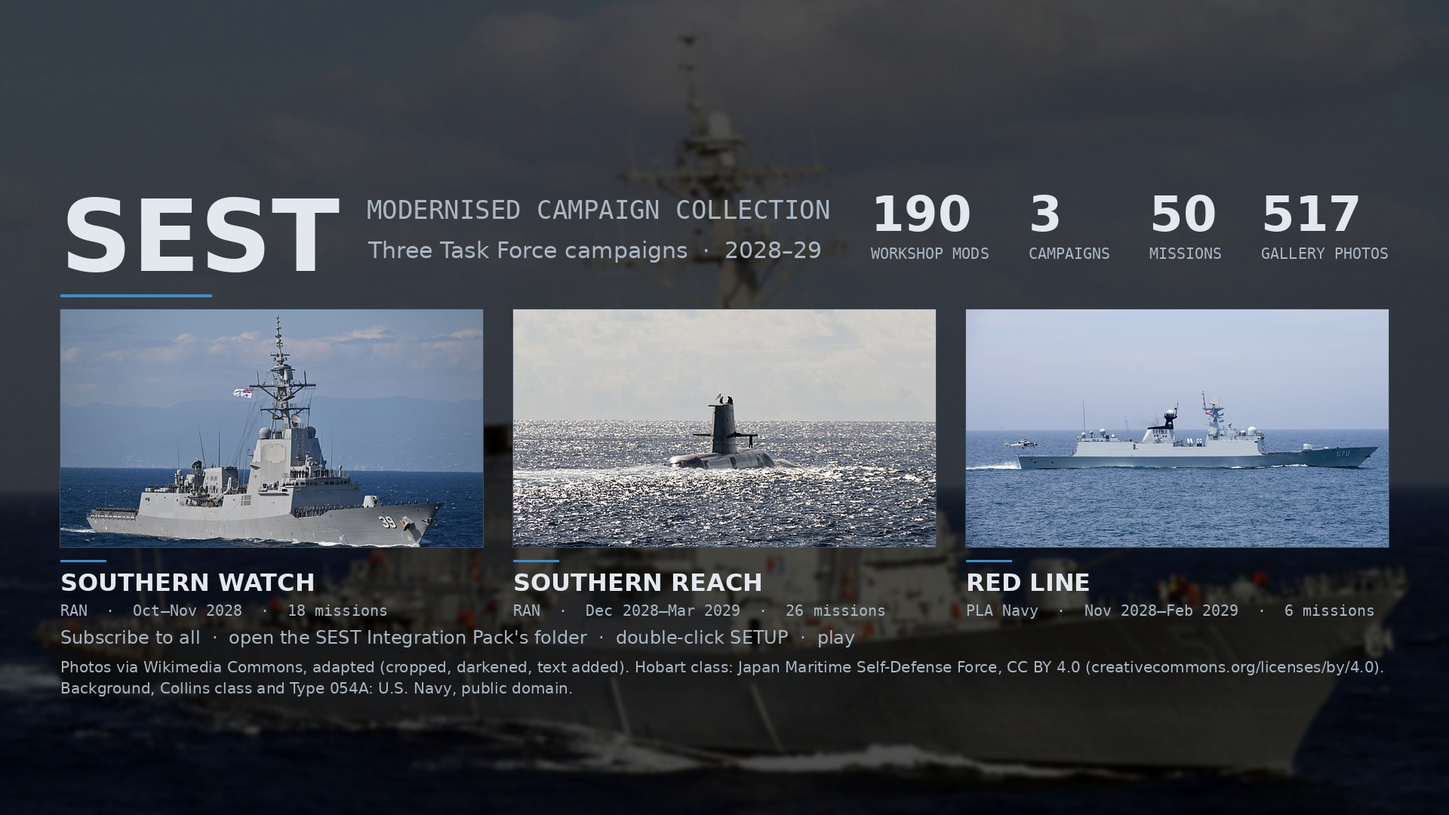
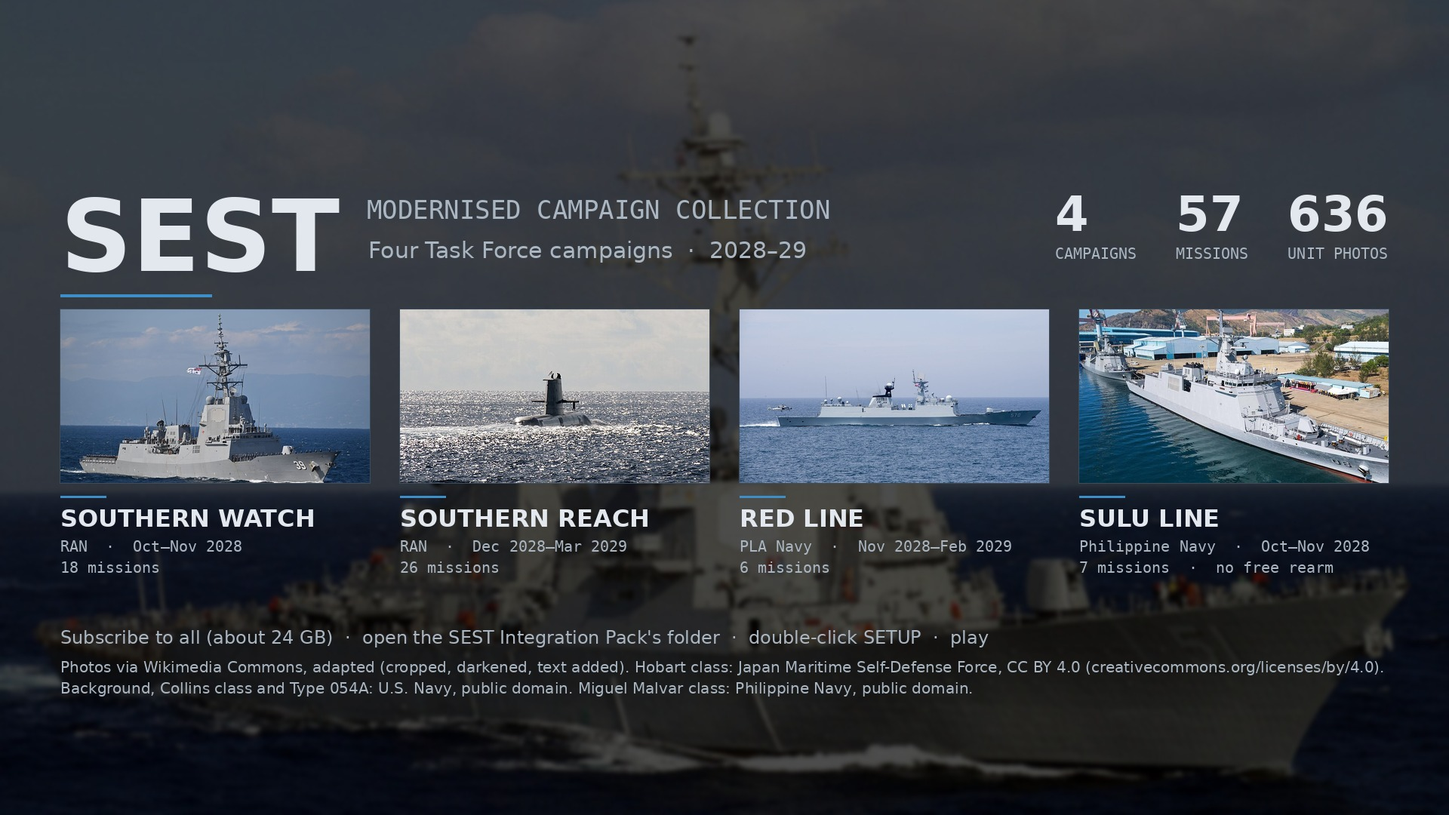
Steam artwork in the gallery: the four-campaign collection background and the Sulu Line card
The collection background in visuals/steam/ was the 5 Oct one (three
campaigns, a Workshop mod count on it); it is now the four-campaign
version with no mod count. The Sulu Line campaign card (Miguel Malvar,
Philippine Navy, public domain) joins the set, with its credit in
VISUAL_CREDITS.txt and a figure in visual_overhaul.html. The pack's
offline gallery ships the same files.

diff --git a/integration/dist/SEST_Integration/Gallery/visual_overhaul.html b/integration/dist/SEST_Integration/Gallery/visual_overhaul.html
@@ -6,7 +6,7 @@
 <div class="controls"><button id="prev">Previous</button><select id="screenSelect" aria-label="Loading photograph"></select><button id="next">Next</button><button id="toggle">Hide preview overlay</button><a id="download" download>Open clean JPEG</a></div><p id="screenCredit" class="note"></p><p class="note">Photographs are fitted without changing the subject. The 1920 × 1080 canvas is a delivery format; smaller source photos do not gain real detail through resizing. Source dimensions and modifications are recorded in the manifest.</p>
 <h2>Flags and naval ensigns</h2><p class="intro">Use national flags for country identity and the appropriate ensign for ship service. Preserve era-specific flags for historical scenarios. Russia is a separate modern-profile option; Soviet assets remain available for historical content.</p><div class="controls"><input id="flagSearch" type="search" placeholder="Find a country or ensign…" aria-label="Search flags"><select id="flagRole" aria-label="Flag type"><option value="">All supplied flags</option><option value="national">National flags</option><option value="naval_ensign">Naval ensigns</option><option value="historical">Historical profile</option></select><span id="flagCount" class="note"></span></div><div id="flags" class="flaggrid"></div>
 <h2>Campaign and briefing presentation</h2><p class="intro">The same approved photograph can support mission covers, a briefing panel and campaign splash art. The template uses plain text and a source photo; theatre names, dates, orders and maps must come from the actual mission.</p><div class="briefing"><img id="briefPhoto" alt="Photographic briefing example"><div class="copy"><label>Briefing layout template</label><h3>Mission title</h3><span class="pill">THEATRE</span> <span class="pill">SCENARIO DATE</span><p><strong>Situation</strong><br>Insert the campaign's approved situation text.</p><p><strong>Mission</strong><br>Insert the actual objectives and rules for this mission.</p><p>Keep the interactive briefing map and operational details sourced from the mission files. This template contains no invented scenario information.</p></div></div>
-<h2>Steam artwork</h2><p class="intro">The images on the collection and pack pages on Steam, made from photos in this gallery. Each image carries its photo credit; full sources are in VISUAL_CREDITS.txt.</p><style>.steamgrid{display:grid;grid-template-columns:repeat(auto-fill,minmax(260px,1fr));gap:16px;max-width:1200px}.steamart{margin:0;background:#fff;border:1px solid var(--line);border-radius:8px;overflow:hidden}.steamart img{display:block;width:100%;height:auto}.steamart figcaption{padding:10px 12px;font-size:13px}.steamart small{color:var(--muted)}</style><div class="steamgrid"><figure class="steamart"><a href="visuals/steam/collection-cover.jpg"><img loading="lazy" src="visuals/steam/collection-cover.jpg" alt="Collection cover"></a><figcaption><strong>Collection cover</strong><br><small>Hobart class: Japan Maritime Self-Defense Force, CC BY 4.0</small></figcaption></figure><figure class="steamart"><a href="visuals/steam/collection-background.jpg"><img loading="lazy" src="visuals/steam/collection-background.jpg" alt="Collection background"></a><figcaption><strong>Collection background</strong><br><small>Arleigh Burke class: U.S. Navy photo by Journalist 2nd Class Patrick Reilly, Public domain; Hobart class: Japan Maritime Self-Defense Force, CC BY 4.0; Collins class submarine: U.S. Navy photo by Mass Communication Specialist 1st Class Leonard Adams, Public domain; Type 054A frigate: U.S. Navy photo by Mass Communication Specialist 1st Class Scott Taylor, Public domain</small></figcaption></figure><figure class="steamart"><a href="visuals/steam/pack-preview.jpg"><img loading="lazy" src="visuals/steam/pack-preview.jpg" alt="Pack cover"></a><figcaption><strong>Pack cover</strong><br><small>F-35A — RAAF: U.S. Air Force photo by Senior Airman J. Michael Peña, Public domain</small></figcaption></figure><figure class="steamart"><a href="visuals/steam/pack-1-latest-update.jpg"><img loading="lazy" src="visuals/steam/pack-1-latest-update.jpg" alt="Latest update"></a><figcaption><strong>Latest update</strong><br><small>BRP Tarlac: U.S. Navy photo by Mass Communication Specialist 1st Class Daniel Barker, CC BY-SA 4.0</small></figcaption></figure><figure class="steamart"><a href="visuals/steam/pack-2-whats-inside.jpg"><img loading="lazy" src="visuals/steam/pack-2-whats-inside.jpg" alt="What's in the pack"></a><figcaption><strong>What's in the pack</strong><br><small>Arleigh Burke class: U.S. Navy photo by Journalist 2nd Class Patrick Reilly, Public domain</small></figcaption></figure><figure class="steamart"><a href="visuals/steam/pack-3-installing.jpg"><img loading="lazy" src="visuals/steam/pack-3-installing.jpg" alt="Installing"></a><figcaption><strong>Installing</strong><br><small>E-7A Wedgetail — RAAF: U.S. Air Force photo by Lawrence Crespo, Public domain</small></figcaption></figure><figure class="steamart"><a href="visuals/steam/pack-4-southern-watch.jpg"><img loading="lazy" src="visuals/steam/pack-4-southern-watch.jpg" alt="Southern Watch"></a><figcaption><strong>Southern Watch</strong><br><small>Hobart class: Japan Maritime Self-Defense Force, CC BY 4.0; campaign map: MH-60R Seahawk, U.S. Navy/Mass Communication Specialist 3rd Class Andrew Langholf, Public domain</small></figcaption></figure><figure class="steamart"><a href="visuals/steam/pack-5-southern-reach.jpg"><img loading="lazy" src="visuals/steam/pack-5-southern-reach.jpg" alt="Southern Reach"></a><figcaption><strong>Southern Reach</strong><br><small>Collins class submarine: U.S. Navy photo by Mass Communication Specialist 1st Class Leonard Adams, Public domain</small></figcaption></figure><figure class="steamart"><a href="visuals/steam/pack-6-red-line.jpg"><img loading="lazy" src="visuals/steam/pack-6-red-line.jpg" alt="Red Line"></a><figcaption><strong>Red Line</strong><br><small>Type 054A frigate: U.S. Navy photo by Mass Communication Specialist 1st Class Scott Taylor, Public domain; campaign map: Type 003 Fujian, China News Service, CC BY 4.0</small></figcaption></figure></div>
+<h2>Steam artwork</h2><p class="intro">The images on the collection and pack pages on Steam, made from photos in this gallery. Each image carries its photo credit; full sources are in VISUAL_CREDITS.txt.</p><style>.steamgrid{display:grid;grid-template-columns:repeat(auto-fill,minmax(260px,1fr));gap:16px;max-width:1200px}.steamart{margin:0;background:#fff;border:1px solid var(--line);border-radius:8px;overflow:hidden}.steamart img{display:block;width:100%;height:auto}.steamart figcaption{padding:10px 12px;font-size:13px}.steamart small{color:var(--muted)}</style><div class="steamgrid"><figure class="steamart"><a href="visuals/steam/collection-cover.jpg"><img loading="lazy" src="visuals/steam/collection-cover.jpg" alt="Collection cover"></a><figcaption><strong>Collection cover</strong><br><small>Hobart class: Japan Maritime Self-Defense Force, CC BY 4.0</small></figcaption></figure><figure class="steamart"><a href="visuals/steam/collection-background.jpg"><img loading="lazy" src="visuals/steam/collection-background.jpg" alt="Collection background"></a><figcaption><strong>Collection background</strong><br><small>Arleigh Burke class: U.S. Navy photo by Journalist 2nd Class Patrick Reilly, Public domain; Hobart class: Japan Maritime Self-Defense Force, CC BY 4.0; Collins class submarine: U.S. Navy photo by Mass Communication Specialist 1st Class Leonard Adams, Public domain; Type 054A frigate: U.S. Navy photo by Mass Communication Specialist 1st Class Scott Taylor, Public domain; Miguel Malvar class: Philippine Navy Public Affairs Office, Public domain</small></figcaption></figure><figure class="steamart"><a href="visuals/steam/pack-preview.jpg"><img loading="lazy" src="visuals/steam/pack-preview.jpg" alt="Pack cover"></a><figcaption><strong>Pack cover</strong><br><small>F-35A — RAAF: U.S. Air Force photo by Senior Airman J. Michael Peña, Public domain</small></figcaption></figure><figure class="steamart"><a href="visuals/steam/pack-1-latest-update.jpg"><img loading="lazy" src="visuals/steam/pack-1-latest-update.jpg" alt="Latest update"></a><figcaption><strong>Latest update</strong><br><small>BRP Tarlac: U.S. Navy photo by Mass Communication Specialist 1st Class Daniel Barker, CC BY-SA 4.0</small></figcaption></figure><figure class="steamart"><a href="visuals/steam/pack-2-whats-inside.jpg"><img loading="lazy" src="visuals/steam/pack-2-whats-inside.jpg" alt="What's in the pack"></a><figcaption><strong>What's in the pack</strong><br><small>Arleigh Burke class: U.S. Navy photo by Journalist 2nd Class Patrick Reilly, Public domain</small></figcaption></figure><figure class="steamart"><a href="visuals/steam/pack-3-installing.jpg"><img loading="lazy" src="visuals/steam/pack-3-installing.jpg" alt="Installing"></a><figcaption><strong>Installing</strong><br><small>E-7A Wedgetail — RAAF: U.S. Air Force photo by Lawrence Crespo, Public domain</small></figcaption></figure><figure class="steamart"><a href="visuals/steam/pack-4-southern-watch.jpg"><img loading="lazy" src="visuals/steam/pack-4-southern-watch.jpg" alt="Southern Watch"></a><figcaption><strong>Southern Watch</strong><br><small>Hobart class: Japan Maritime Self-Defense Force, CC BY 4.0; campaign map: MH-60R Seahawk, U.S. Navy/Mass Communication Specialist 3rd Class Andrew Langholf, Public domain</small></figcaption></figure><figure class="steamart"><a href="visuals/steam/pack-5-southern-reach.jpg"><img loading="lazy" src="visuals/steam/pack-5-southern-reach.jpg" alt="Southern Reach"></a><figcaption><strong>Southern Reach</strong><br><small>Collins class submarine: U.S. Navy photo by Mass Communication Specialist 1st Class Leonard Adams, Public domain</small></figcaption></figure><figure class="steamart"><a href="visuals/steam/pack-6-red-line.jpg"><img loading="lazy" src="visuals/steam/pack-6-red-line.jpg" alt="Red Line"></a><figcaption><strong>Red Line</strong><br><small>Type 054A frigate: U.S. Navy photo by Mass Communication Specialist 1st Class Scott Taylor, Public domain; campaign map: Type 003 Fujian, China News Service, CC BY 4.0</small></figcaption></figure><figure class="steamart"><a href="visuals/steam/pack-7-sulu-line.jpg"><img loading="lazy" src="visuals/steam/pack-7-sulu-line.jpg" alt="Sulu Line"></a><figcaption><strong>Sulu Line</strong><br><small>Miguel Malvar class: Philippine Navy Public Affairs Office, Public domain; campaign map: BRP Tarlac, U.S. Navy photo by Mass Communication Specialist 1st Class Daniel Barker, CC BY-SA 4.0</small></figcaption></figure></div>
 <h2>Other improvements to consider</h2><div class="table"><table><thead><tr><th>Area</th><th>Deliverable</th><th>Current state</th><th>Order</th></tr></thead><tbody id="roadmap"></tbody></table></div>
 </main><footer>Source graphics and photographs retain their own licences. Clean assets, credits and candidate mappings are supplied. No game files have been changed; native image loading, flag texture routing, mod conflicts and in-game appearance still require testing.</footer><script src="visuals/catalogue.js"></script><script>
 'use strict';const V=window.VISUALS;const $=s=>document.querySelector(s);const esc=s=>String(s??'').replace(/[&<>"']/g,c=>({'&':'&amp;','<':'&lt;','>':'&gt;','"':'&quot;',"'":'&#39;'}[c]));let index=0,overlay=true;

diff --git a/integration/gallery/SEST_Gallery/Gallery/visual_overhaul.html b/integration/gallery/SEST_Gallery/Gallery/visual_overhaul.html
@@ -6,7 +6,7 @@
 <div class="controls"><button id="prev">Previous</button><select id="screenSelect" aria-label="Loading photograph"></select><button id="next">Next</button><button id="toggle">Hide preview overlay</button><a id="download" download>Open clean JPEG</a></div><p id="screenCredit" class="note"></p><p class="note">Photographs are fitted without changing the subject. The 1920 × 1080 canvas is a delivery format; smaller source photos do not gain real detail through resizing. Source dimensions and modifications are recorded in the manifest.</p>
 <h2>Flags and naval ensigns</h2><p class="intro">Use national flags for country identity and the appropriate ensign for ship service. Preserve era-specific flags for historical scenarios. Russia is a separate modern-profile option; Soviet assets remain available for historical content.</p><div class="controls"><input id="flagSearch" type="search" placeholder="Find a country or ensign…" aria-label="Search flags"><select id="flagRole" aria-label="Flag type"><option value="">All supplied flags</option><option value="national">National flags</option><option value="naval_ensign">Naval ensigns</option><option value="historical">Historical profile</option></select><span id="flagCount" class="note"></span></div><div id="flags" class="flaggrid"></div>
 <h2>Campaign and briefing presentation</h2><p class="intro">The same approved photograph can support mission covers, a briefing panel and campaign splash art. The template uses plain text and a source photo; theatre names, dates, orders and maps must come from the actual mission.</p><div class="briefing"><img id="briefPhoto" alt="Photographic briefing example"><div class="copy"><label>Briefing layout template</label><h3>Mission title</h3><span class="pill">THEATRE</span> <span class="pill">SCENARIO DATE</span><p><strong>Situation</strong><br>Insert the campaign's approved situation text.</p><p><strong>Mission</strong><br>Insert the actual objectives and rules for this mission.</p><p>Keep the interactive briefing map and operational details sourced from the mission files. This template contains no invented scenario information.</p></div></div>
-<h2>Steam artwork</h2><p class="intro">The images on the collection and pack pages on Steam, made from photos in this gallery. Each image carries its photo credit; full sources are in VISUAL_CREDITS.txt.</p><style>.steamgrid{display:grid;grid-template-columns:repeat(auto-fill,minmax(260px,1fr));gap:16px;max-width:1200px}.steamart{margin:0;background:#fff;border:1px solid var(--line);border-radius:8px;overflow:hidden}.steamart img{display:block;width:100%;height:auto}.steamart figcaption{padding:10px 12px;font-size:13px}.steamart small{color:var(--muted)}</style><div class="steamgrid"><figure class="steamart"><a href="visuals/steam/collection-cover.jpg"><img loading="lazy" src="visuals/steam/collection-cover.jpg" alt="Collection cover"></a><figcaption><strong>Collection cover</strong><br><small>Hobart class: Japan Maritime Self-Defense Force, CC BY 4.0</small></figcaption></figure><figure class="steamart"><a href="visuals/steam/collection-background.jpg"><img loading="lazy" src="visuals/steam/collection-background.jpg" alt="Collection background"></a><figcaption><strong>Collection background</strong><br><small>Arleigh Burke class: U.S. Navy photo by Journalist 2nd Class Patrick Reilly, Public domain; Hobart class: Japan Maritime Self-Defense Force, CC BY 4.0; Collins class submarine: U.S. Navy photo by Mass Communication Specialist 1st Class Leonard Adams, Public domain; Type 054A frigate: U.S. Navy photo by Mass Communication Specialist 1st Class Scott Taylor, Public domain</small></figcaption></figure><figure class="steamart"><a href="visuals/steam/pack-preview.jpg"><img loading="lazy" src="visuals/steam/pack-preview.jpg" alt="Pack cover"></a><figcaption><strong>Pack cover</strong><br><small>F-35A — RAAF: U.S. Air Force photo by Senior Airman J. Michael Peña, Public domain</small></figcaption></figure><figure class="steamart"><a href="visuals/steam/pack-1-latest-update.jpg"><img loading="lazy" src="visuals/steam/pack-1-latest-update.jpg" alt="Latest update"></a><figcaption><strong>Latest update</strong><br><small>BRP Tarlac: U.S. Navy photo by Mass Communication Specialist 1st Class Daniel Barker, CC BY-SA 4.0</small></figcaption></figure><figure class="steamart"><a href="visuals/steam/pack-2-whats-inside.jpg"><img loading="lazy" src="visuals/steam/pack-2-whats-inside.jpg" alt="What's in the pack"></a><figcaption><strong>What's in the pack</strong><br><small>Arleigh Burke class: U.S. Navy photo by Journalist 2nd Class Patrick Reilly, Public domain</small></figcaption></figure><figure class="steamart"><a href="visuals/steam/pack-3-installing.jpg"><img loading="lazy" src="visuals/steam/pack-3-installing.jpg" alt="Installing"></a><figcaption><strong>Installing</strong><br><small>E-7A Wedgetail — RAAF: U.S. Air Force photo by Lawrence Crespo, Public domain</small></figcaption></figure><figure class="steamart"><a href="visuals/steam/pack-4-southern-watch.jpg"><img loading="lazy" src="visuals/steam/pack-4-southern-watch.jpg" alt="Southern Watch"></a><figcaption><strong>Southern Watch</strong><br><small>Hobart class: Japan Maritime Self-Defense Force, CC BY 4.0; campaign map: MH-60R Seahawk, U.S. Navy/Mass Communication Specialist 3rd Class Andrew Langholf, Public domain</small></figcaption></figure><figure class="steamart"><a href="visuals/steam/pack-5-southern-reach.jpg"><img loading="lazy" src="visuals/steam/pack-5-southern-reach.jpg" alt="Southern Reach"></a><figcaption><strong>Southern Reach</strong><br><small>Collins class submarine: U.S. Navy photo by Mass Communication Specialist 1st Class Leonard Adams, Public domain</small></figcaption></figure><figure class="steamart"><a href="visuals/steam/pack-6-red-line.jpg"><img loading="lazy" src="visuals/steam/pack-6-red-line.jpg" alt="Red Line"></a><figcaption><strong>Red Line</strong><br><small>Type 054A frigate: U.S. Navy photo by Mass Communication Specialist 1st Class Scott Taylor, Public domain; campaign map: Type 003 Fujian, China News Service, CC BY 4.0</small></figcaption></figure></div>
+<h2>Steam artwork</h2><p class="intro">The images on the collection and pack pages on Steam, made from photos in this gallery. Each image carries its photo credit; full sources are in VISUAL_CREDITS.txt.</p><style>.steamgrid{display:grid;grid-template-columns:repeat(auto-fill,minmax(260px,1fr));gap:16px;max-width:1200px}.steamart{margin:0;background:#fff;border:1px solid var(--line);border-radius:8px;overflow:hidden}.steamart img{display:block;width:100%;height:auto}.steamart figcaption{padding:10px 12px;font-size:13px}.steamart small{color:var(--muted)}</style><div class="steamgrid"><figure class="steamart"><a href="visuals/steam/collection-cover.jpg"><img loading="lazy" src="visuals/steam/collection-cover.jpg" alt="Collection cover"></a><figcaption><strong>Collection cover</strong><br><small>Hobart class: Japan Maritime Self-Defense Force, CC BY 4.0</small></figcaption></figure><figure class="steamart"><a href="visuals/steam/collection-background.jpg"><img loading="lazy" src="visuals/steam/collection-background.jpg" alt="Collection background"></a><figcaption><strong>Collection background</strong><br><small>Arleigh Burke class: U.S. Navy photo by Journalist 2nd Class Patrick Reilly, Public domain; Hobart class: Japan Maritime Self-Defense Force, CC BY 4.0; Collins class submarine: U.S. Navy photo by Mass Communication Specialist 1st Class Leonard Adams, Public domain; Type 054A frigate: U.S. Navy photo by Mass Communication Specialist 1st Class Scott Taylor, Public domain; Miguel Malvar class: Philippine Navy Public Affairs Office, Public domain</small></figcaption></figure><figure class="steamart"><a href="visuals/steam/pack-preview.jpg"><img loading="lazy" src="visuals/steam/pack-preview.jpg" alt="Pack cover"></a><figcaption><strong>Pack cover</strong><br><small>F-35A — RAAF: U.S. Air Force photo by Senior Airman J. Michael Peña, Public domain</small></figcaption></figure><figure class="steamart"><a href="visuals/steam/pack-1-latest-update.jpg"><img loading="lazy" src="visuals/steam/pack-1-latest-update.jpg" alt="Latest update"></a><figcaption><strong>Latest update</strong><br><small>BRP Tarlac: U.S. Navy photo by Mass Communication Specialist 1st Class Daniel Barker, CC BY-SA 4.0</small></figcaption></figure><figure class="steamart"><a href="visuals/steam/pack-2-whats-inside.jpg"><img loading="lazy" src="visuals/steam/pack-2-whats-inside.jpg" alt="What's in the pack"></a><figcaption><strong>What's in the pack</strong><br><small>Arleigh Burke class: U.S. Navy photo by Journalist 2nd Class Patrick Reilly, Public domain</small></figcaption></figure><figure class="steamart"><a href="visuals/steam/pack-3-installing.jpg"><img loading="lazy" src="visuals/steam/pack-3-installing.jpg" alt="Installing"></a><figcaption><strong>Installing</strong><br><small>E-7A Wedgetail — RAAF: U.S. Air Force photo by Lawrence Crespo, Public domain</small></figcaption></figure><figure class="steamart"><a href="visuals/steam/pack-4-southern-watch.jpg"><img loading="lazy" src="visuals/steam/pack-4-southern-watch.jpg" alt="Southern Watch"></a><figcaption><strong>Southern Watch</strong><br><small>Hobart class: Japan Maritime Self-Defense Force, CC BY 4.0; campaign map: MH-60R Seahawk, U.S. Navy/Mass Communication Specialist 3rd Class Andrew Langholf, Public domain</small></figcaption></figure><figure class="steamart"><a href="visuals/steam/pack-5-southern-reach.jpg"><img loading="lazy" src="visuals/steam/pack-5-southern-reach.jpg" alt="Southern Reach"></a><figcaption><strong>Southern Reach</strong><br><small>Collins class submarine: U.S. Navy photo by Mass Communication Specialist 1st Class Leonard Adams, Public domain</small></figcaption></figure><figure class="steamart"><a href="visuals/steam/pack-6-red-line.jpg"><img loading="lazy" src="visuals/steam/pack-6-red-line.jpg" alt="Red Line"></a><figcaption><strong>Red Line</strong><br><small>Type 054A frigate: U.S. Navy photo by Mass Communication Specialist 1st Class Scott Taylor, Public domain; campaign map: Type 003 Fujian, China News Service, CC BY 4.0</small></figcaption></figure><figure class="steamart"><a href="visuals/steam/pack-7-sulu-line.jpg"><img loading="lazy" src="visuals/steam/pack-7-sulu-line.jpg" alt="Sulu Line"></a><figcaption><strong>Sulu Line</strong><br><small>Miguel Malvar class: Philippine Navy Public Affairs Office, Public domain; campaign map: BRP Tarlac, U.S. Navy photo by Mass Communication Specialist 1st Class Daniel Barker, CC BY-SA 4.0</small></figcaption></figure></div>
 <h2>Other improvements to consider</h2><div class="table"><table><thead><tr><th>Area</th><th>Deliverable</th><th>Current state</th><th>Order</th></tr></thead><tbody id="roadmap"></tbody></table></div>
 </main><footer>Source graphics and photographs retain their own licences. Clean assets, credits and candidate mappings are supplied. No game files have been changed; native image loading, flag texture routing, mod conflicts and in-game appearance still require testing.</footer><script src="visuals/catalogue.js"></script><script>
 'use strict';const V=window.VISUALS;const $=s=>document.querySelector(s);const esc=s=>String(s??'').replace(/[&<>"']/g,c=>({'&':'&amp;','<':'&lt;','>':'&gt;','"':'&quot;',"'":'&#39;'}[c]));let index=0,overlay=true;

diff --git a/integration/gallery/source/visual_overhaul.html b/integration/gallery/source/visual_overhaul.html
@@ -6,7 +6,7 @@
 <div class="controls"><button id="prev">Previous</button><select id="screenSelect" aria-label="Loading photograph"></select><button id="next">Next</button><button id="toggle">Hide preview overlay</button><a id="download" download>Open clean JPEG</a></div><p id="screenCredit" class="note"></p><p class="note">Photographs are fitted without changing the subject. The 1920 × 1080 canvas is a delivery format; smaller source photos do not gain real detail through resizing. Source dimensions and modifications are recorded in the manifest.</p>
 <h2>Flags and naval ensigns</h2><p class="intro">Use national flags for country identity and the appropriate ensign for ship service. Preserve era-specific flags for historical scenarios. Russia is a separate modern-profile option; Soviet assets remain available for historical content.</p><div class="controls"><input id="flagSearch" type="search" placeholder="Find a country or ensign…" aria-label="Search flags"><select id="flagRole" aria-label="Flag type"><option value="">All supplied flags</option><option value="national">National flags</option><option value="naval_ensign">Naval ensigns</option><option value="historical">Historical profile</option></select><span id="flagCount" class="note"></span></div><div id="flags" class="flaggrid"></div>
 <h2>Campaign and briefing presentation</h2><p class="intro">The same approved photograph can support mission covers, a briefing panel and campaign splash art. The template uses plain text and a source photo; theatre names, dates, orders and maps must come from the actual mission.</p><div class="briefing"><img id="briefPhoto" alt="Photographic briefing example"><div class="copy"><label>Briefing layout template</label><h3>Mission title</h3><span class="pill">THEATRE</span> <span class="pill">SCENARIO DATE</span><p><strong>Situation</strong><br>Insert the campaign's approved situation text.</p><p><strong>Mission</strong><br>Insert the actual objectives and rules for this mission.</p><p>Keep the interactive briefing map and operational details sourced from the mission files. This template contains no invented scenario information.</p></div></div>
-<h2>Steam artwork</h2><p class="intro">The images on the collection and pack pages on Steam, made from photos in this gallery. Each image carries its photo credit; full sources are in VISUAL_CREDITS.txt.</p><style>.steamgrid{display:grid;grid-template-columns:repeat(auto-fill,minmax(260px,1fr));gap:16px;max-width:1200px}.steamart{margin:0;background:#fff;border:1px solid var(--line);border-radius:8px;overflow:hidden}.steamart img{display:block;width:100%;height:auto}.steamart figcaption{padding:10px 12px;font-size:13px}.steamart small{color:var(--muted)}</style><div class="steamgrid"><figure class="steamart"><a href="visuals/steam/collection-cover.jpg"><img loading="lazy" src="visuals/steam/collection-cover.jpg" alt="Collection cover"></a><figcaption><strong>Collection cover</strong><br><small>Hobart class: Japan Maritime Self-Defense Force, CC BY 4.0</small></figcaption></figure><figure class="steamart"><a href="visuals/steam/collection-background.jpg"><img loading="lazy" src="visuals/steam/collection-background.jpg" alt="Collection background"></a><figcaption><strong>Collection background</strong><br><small>Arleigh Burke class: U.S. Navy photo by Journalist 2nd Class Patrick Reilly, Public domain; Hobart class: Japan Maritime Self-Defense Force, CC BY 4.0; Collins class submarine: U.S. Navy photo by Mass Communication Specialist 1st Class Leonard Adams, Public domain; Type 054A frigate: U.S. Navy photo by Mass Communication Specialist 1st Class Scott Taylor, Public domain</small></figcaption></figure><figure class="steamart"><a href="visuals/steam/pack-preview.jpg"><img loading="lazy" src="visuals/steam/pack-preview.jpg" alt="Pack cover"></a><figcaption><strong>Pack cover</strong><br><small>F-35A — RAAF: U.S. Air Force photo by Senior Airman J. Michael Peña, Public domain</small></figcaption></figure><figure class="steamart"><a href="visuals/steam/pack-1-latest-update.jpg"><img loading="lazy" src="visuals/steam/pack-1-latest-update.jpg" alt="Latest update"></a><figcaption><strong>Latest update</strong><br><small>BRP Tarlac: U.S. Navy photo by Mass Communication Specialist 1st Class Daniel Barker, CC BY-SA 4.0</small></figcaption></figure><figure class="steamart"><a href="visuals/steam/pack-2-whats-inside.jpg"><img loading="lazy" src="visuals/steam/pack-2-whats-inside.jpg" alt="What's in the pack"></a><figcaption><strong>What's in the pack</strong><br><small>Arleigh Burke class: U.S. Navy photo by Journalist 2nd Class Patrick Reilly, Public domain</small></figcaption></figure><figure class="steamart"><a href="visuals/steam/pack-3-installing.jpg"><img loading="lazy" src="visuals/steam/pack-3-installing.jpg" alt="Installing"></a><figcaption><strong>Installing</strong><br><small>E-7A Wedgetail — RAAF: U.S. Air Force photo by Lawrence Crespo, Public domain</small></figcaption></figure><figure class="steamart"><a href="visuals/steam/pack-4-southern-watch.jpg"><img loading="lazy" src="visuals/steam/pack-4-southern-watch.jpg" alt="Southern Watch"></a><figcaption><strong>Southern Watch</strong><br><small>Hobart class: Japan Maritime Self-Defense Force, CC BY 4.0; campaign map: MH-60R Seahawk, U.S. Navy/Mass Communication Specialist 3rd Class Andrew Langholf, Public domain</small></figcaption></figure><figure class="steamart"><a href="visuals/steam/pack-5-southern-reach.jpg"><img loading="lazy" src="visuals/steam/pack-5-southern-reach.jpg" alt="Southern Reach"></a><figcaption><strong>Southern Reach</strong><br><small>Collins class submarine: U.S. Navy photo by Mass Communication Specialist 1st Class Leonard Adams, Public domain</small></figcaption></figure><figure class="steamart"><a href="visuals/steam/pack-6-red-line.jpg"><img loading="lazy" src="visuals/steam/pack-6-red-line.jpg" alt="Red Line"></a><figcaption><strong>Red Line</strong><br><small>Type 054A frigate: U.S. Navy photo by Mass Communication Specialist 1st Class Scott Taylor, Public domain; campaign map: Type 003 Fujian, China News Service, CC BY 4.0</small></figcaption></figure></div>
+<h2>Steam artwork</h2><p class="intro">The images on the collection and pack pages on Steam, made from photos in this gallery. Each image carries its photo credit; full sources are in VISUAL_CREDITS.txt.</p><style>.steamgrid{display:grid;grid-template-columns:repeat(auto-fill,minmax(260px,1fr));gap:16px;max-width:1200px}.steamart{margin:0;background:#fff;border:1px solid var(--line);border-radius:8px;overflow:hidden}.steamart img{display:block;width:100%;height:auto}.steamart figcaption{padding:10px 12px;font-size:13px}.steamart small{color:var(--muted)}</style><div class="steamgrid"><figure class="steamart"><a href="visuals/steam/collection-cover.jpg"><img loading="lazy" src="visuals/steam/collection-cover.jpg" alt="Collection cover"></a><figcaption><strong>Collection cover</strong><br><small>Hobart class: Japan Maritime Self-Defense Force, CC BY 4.0</small></figcaption></figure><figure class="steamart"><a href="visuals/steam/collection-background.jpg"><img loading="lazy" src="visuals/steam/collection-background.jpg" alt="Collection background"></a><figcaption><strong>Collection background</strong><br><small>Arleigh Burke class: U.S. Navy photo by Journalist 2nd Class Patrick Reilly, Public domain; Hobart class: Japan Maritime Self-Defense Force, CC BY 4.0; Collins class submarine: U.S. Navy photo by Mass Communication Specialist 1st Class Leonard Adams, Public domain; Type 054A frigate: U.S. Navy photo by Mass Communication Specialist 1st Class Scott Taylor, Public domain; Miguel Malvar class: Philippine Navy Public Affairs Office, Public domain</small></figcaption></figure><figure class="steamart"><a href="visuals/steam/pack-preview.jpg"><img loading="lazy" src="visuals/steam/pack-preview.jpg" alt="Pack cover"></a><figcaption><strong>Pack cover</strong><br><small>F-35A — RAAF: U.S. Air Force photo by Senior Airman J. Michael Peña, Public domain</small></figcaption></figure><figure class="steamart"><a href="visuals/steam/pack-1-latest-update.jpg"><img loading="lazy" src="visuals/steam/pack-1-latest-update.jpg" alt="Latest update"></a><figcaption><strong>Latest update</strong><br><small>BRP Tarlac: U.S. Navy photo by Mass Communication Specialist 1st Class Daniel Barker, CC BY-SA 4.0</small></figcaption></figure><figure class="steamart"><a href="visuals/steam/pack-2-whats-inside.jpg"><img loading="lazy" src="visuals/steam/pack-2-whats-inside.jpg" alt="What's in the pack"></a><figcaption><strong>What's in the pack</strong><br><small>Arleigh Burke class: U.S. Navy photo by Journalist 2nd Class Patrick Reilly, Public domain</small></figcaption></figure><figure class="steamart"><a href="visuals/steam/pack-3-installing.jpg"><img loading="lazy" src="visuals/steam/pack-3-installing.jpg" alt="Installing"></a><figcaption><strong>Installing</strong><br><small>E-7A Wedgetail — RAAF: U.S. Air Force photo by Lawrence Crespo, Public domain</small></figcaption></figure><figure class="steamart"><a href="visuals/steam/pack-4-southern-watch.jpg"><img loading="lazy" src="visuals/steam/pack-4-southern-watch.jpg" alt="Southern Watch"></a><figcaption><strong>Southern Watch</strong><br><small>Hobart class: Japan Maritime Self-Defense Force, CC BY 4.0; campaign map: MH-60R Seahawk, U.S. Navy/Mass Communication Specialist 3rd Class Andrew Langholf, Public domain</small></figcaption></figure><figure class="steamart"><a href="visuals/steam/pack-5-southern-reach.jpg"><img loading="lazy" src="visuals/steam/pack-5-southern-reach.jpg" alt="Southern Reach"></a><figcaption><strong>Southern Reach</strong><br><small>Collins class submarine: U.S. Navy photo by Mass Communication Specialist 1st Class Leonard Adams, Public domain</small></figcaption></figure><figure class="steamart"><a href="visuals/steam/pack-6-red-line.jpg"><img loading="lazy" src="visuals/steam/pack-6-red-line.jpg" alt="Red Line"></a><figcaption><strong>Red Line</strong><br><small>Type 054A frigate: U.S. Navy photo by Mass Communication Specialist 1st Class Scott Taylor, Public domain; campaign map: Type 003 Fujian, China News Service, CC BY 4.0</small></figcaption></figure><figure class="steamart"><a href="visuals/steam/pack-7-sulu-line.jpg"><img loading="lazy" src="visuals/steam/pack-7-sulu-line.jpg" alt="Sulu Line"></a><figcaption><strong>Sulu Line</strong><br><small>Miguel Malvar class: Philippine Navy Public Affairs Office, Public domain; campaign map: BRP Tarlac, U.S. Navy photo by Mass Communication Specialist 1st Class Daniel Barker, CC BY-SA 4.0</small></figcaption></figure></div>
 <h2>Other improvements to consider</h2><div class="table"><table><thead><tr><th>Area</th><th>Deliverable</th><th>Current state</th><th>Order</th></tr></thead><tbody id="roadmap"></tbody></table></div>
 </main><footer>Source graphics and photographs retain their own licences. Clean assets, credits and candidate mappings are supplied. No game files have been changed; native image loading, flag texture routing, mod conflicts and in-game appearance still require testing.</footer><script src="visuals/catalogue.js"></script><script>
 'use strict';const V=window.VISUALS;const $=s=>document.querySelector(s);const esc=s=>String(s??'').replace(/[&<>"']/g,c=>({'&':'&amp;','<':'&lt;','>':'&gt;','"':'&quot;',"'":'&#39;'}[c]));let index=0,overlay=true;
